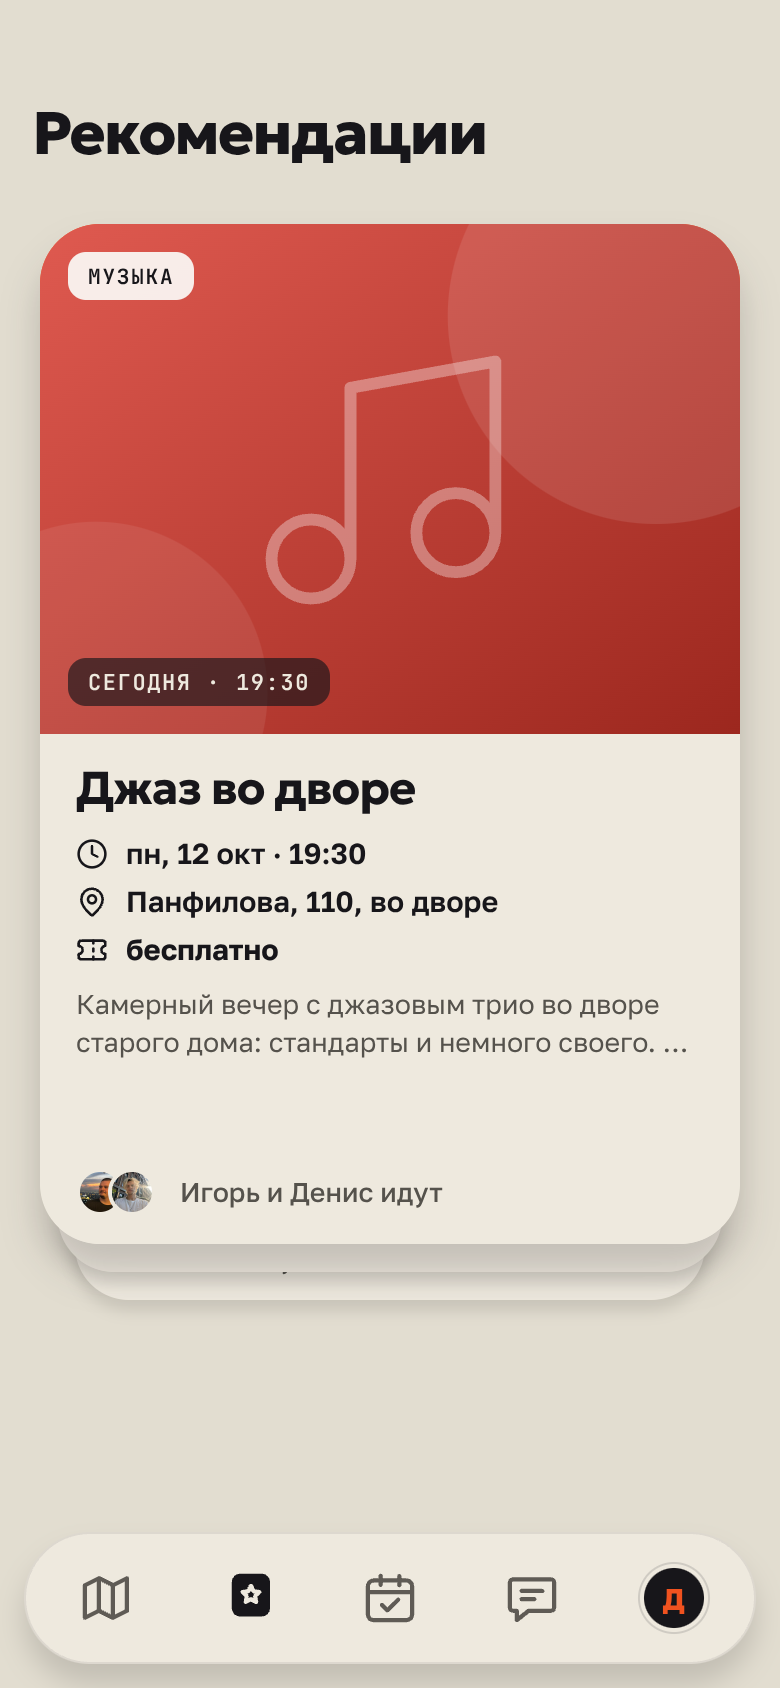
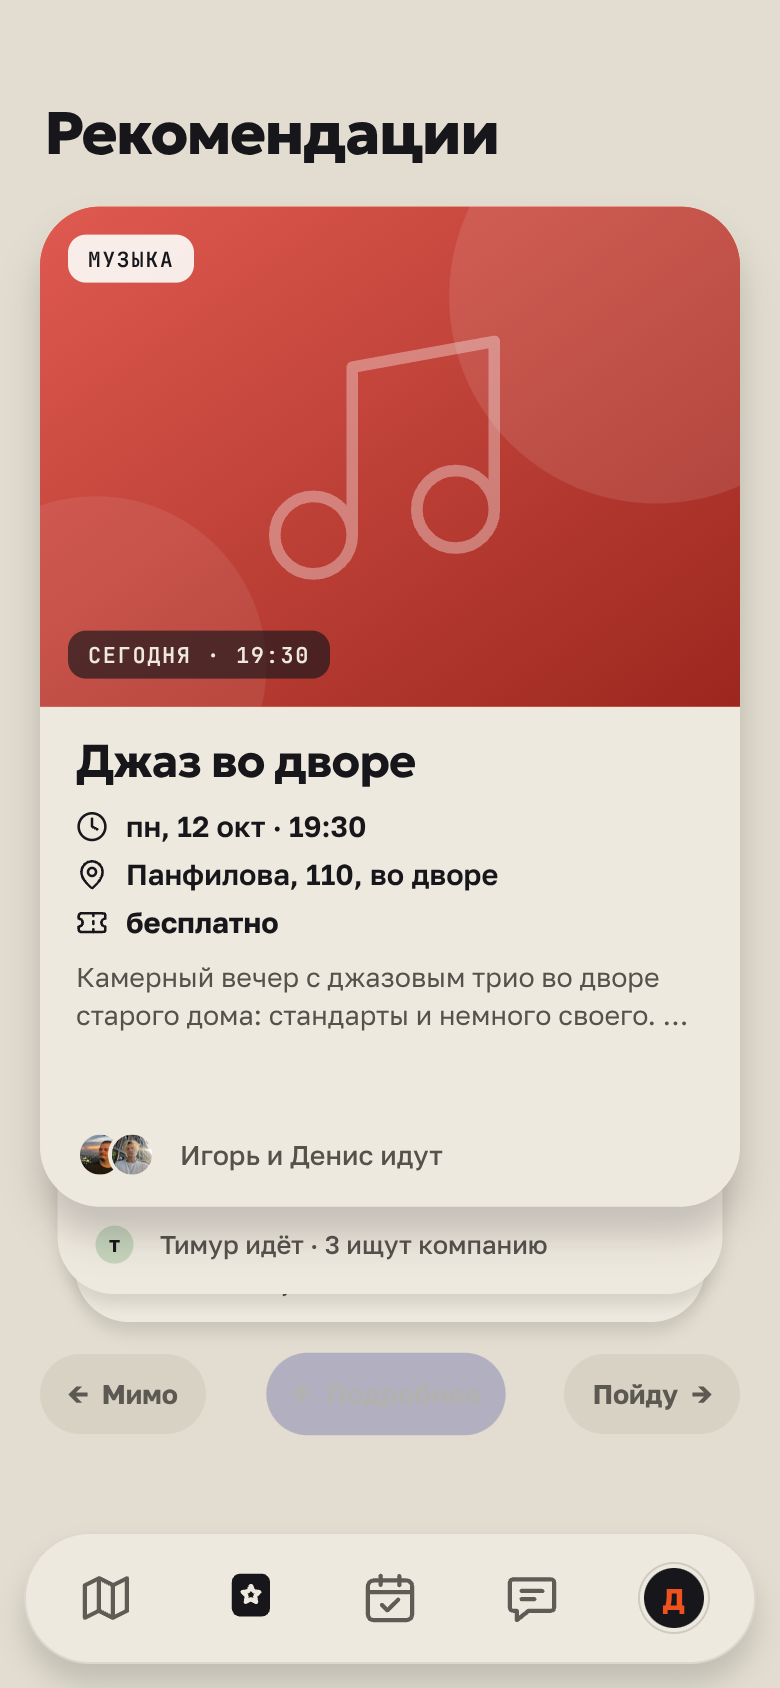
Рекомендации: подсказки жестов под карточкой и свечение краёв, плавное раскрытие вверх, «намёк» движением при простое, ровная раскладка
Claude-Session: https://claude.ai/code/session_01KgQu78EUaXc3hV8ZEHL75r

diff --git a/src/features/feed/FeedScreen.tsx b/src/features/feed/FeedScreen.tsx
@@ -10,8 +10,9 @@ import { scheduleOnRN } from 'react-native-worklets';
 import { tabCenter, tabInset } from '../../components/TabBar';
 import { useTabBadges } from '../../state/tabBadges';
 import { data, eventsSnapshot, type EventItem } from '../../data';
-import { EventPage } from '../../event/EventPage';
+import { LazyEventPage } from '../../event/LazyEventPage';
 import { SwipeCard, type SwipeHandle } from '../../feed/SwipeCard';
+import { EdgeGlow, SwipeHints } from '../../feed/SwipeHints';
 import { now as clockNow } from '../../lib/clock';
 import { buildDeck, makeSignal, tasteFrom } from '../../reco';
 import { useApp, useCoverTabBar } from '../../state/app';
@@ -49,6 +50,10 @@ export default function ForYouScreen() {
   const opened = useRef(new Set<string>());
   useCoverTabBar(!!open);
   const topRef = useRef<SwipeHandle>(null);
+  // Смещение верхней карточки: по нему подсвечиваются подсказки жестов и края экрана.
+  const dragX = useSharedValue(0);
+  const dragY = useSharedValue(0);
+  const drag = { x: dragX, y: dragY };
 
   // Вкус = ответы регистрации + свайпы. Колода пересчитывается после каждого решения.
   const answers = { interests: draft.interests ?? INITIAL_DRAFT.interests, times: draft.times ?? INITIAL_DRAFT.times, withWho: draft.withWho ?? 'friends', budget: draft.budget ?? 'mid' };
@@ -72,12 +77,18 @@ export default function ForYouScreen() {
     return d;
   }, [taste, events, decided, history, now, enter]);
 
-  const cardTop = Math.max(50, insets.top + 6) + 62;
-  // Таб-бар плавает поверх: карточки и кнопки — над ним, раскрытое событие — на весь экран.
+  // Раскладка: заголовок, карточка и подсказки жестов под ней — всё по одной вертикальной оси; свободное место делим пополам.
+  const headTop = Math.max(50, insets.top + 6);
+  const baseTop = headTop + 56;
   const fullH = H || winH;
   const screenH = fullH - tabInset(insets.bottom) + 10;
+  const HINTS_H = 40;
+  const GAP = 44; // под карточкой видна стопка (28) и зазор
   const cardW = Math.min(350, W - 40);
-  const cardH = Math.max(350, Math.min(510, screenH - cardTop - 30));
+  const cardH = Math.max(340, Math.min(500, screenH - baseTop - GAP - HINTS_H - 16));
+  const free = Math.max(0, screenH - baseTop - cardH - GAP - HINTS_H - 16);
+  const cardTop = baseTop + Math.round(free * 0.45);
+  const hintsTop = cardTop + cardH + GAP;
   const cardX = (W - cardW) / 2;
   // Центр иконки «Планы» на панели относительно центра карточки.
   const plansIcon = tabCenter(2, W, fullH, insets.bottom);
@@ -151,9 +162,11 @@ export default function ForYouScreen() {
 
   return (
     <View style={styles.root} onLayout={(ev) => setH(ev.nativeEvent.layout.height)}>
-      <View style={[styles.head, { top: Math.max(50, insets.top + 6) }]}>
+      <View style={[styles.head, { top: headTop, left: cardX + 2, right: cardX }]}>
         <Text style={styles.h1} accessibilityRole="header">Рекомендации</Text>
       </View>
+
+      {top && <EdgeGlow x={dragX} width={W} />}
 
       <View style={{ position: 'absolute', left: cardX, top: cardTop, width: cardW, height: cardH }}>
         {deck.slice(0, STACK).map((e, k) => (
@@ -169,9 +182,14 @@ export default function ForYouScreen() {
             expand={p} onReveal={() => openCard(e, true)}
             onRevealEnd={(commit) => { if (commit) p.set(withTiming(1, { duration: 240, easing: Easing.out(Easing.cubic) })); else closeCard(); }}
             onUndo={doUndo}
+            drag={k === 0 ? drag : undefined}
           />
         )).reverse()}
       </View>
+
+      {top && !open && (
+        <View style={[styles.hints, { top: hintsTop, left: cardX, width: cardW }]} pointerEvents="none"><SwipeHints x={dragX} y={dragY} /></View>
+      )}
 
       {!top && (
         <View style={[styles.emptyBox, { top: cardTop + 40 }]}>
@@ -197,7 +215,7 @@ export default function ForYouScreen() {
       {open && (
         <Animated.View style={[styles.clip, clip]}>
           <Animated.View style={[{ position: 'absolute', width: W, height: fullH }, clipInner]}>
-            <EventPage e={open} now={now} closeLabel="Свернуть обратно в карточку" onClose={() => closeCard()} onSkip={() => closeCard(() => topRef.current?.fly('skip'))}
+            <LazyEventPage progress={p} e={open} now={now} closeLabel="Свернуть обратно в карточку" onClose={() => closeCard()} onSkip={() => closeCard(() => topRef.current?.fly('skip'))}
               onGo={() => closeCard(() => topRef.current?.fly('go'))} />
           </Animated.View>
         </Animated.View>
@@ -218,4 +236,5 @@ const styles = StyleSheet.create({
   emptyGhostText: { fontFamily: fonts.body700, fontSize: 14.5, color: colors.ink, textDecorationLine: 'underline' },
   emptyBtnText: { fontFamily: fonts.body700, fontSize: 15.5, color: colors.paper },
   clip: { position: 'absolute', overflow: 'hidden', zIndex: 50 },
+  hints: { position: 'absolute' },
 });

diff --git a/src/feed/SwipeCard.tsx b/src/feed/SwipeCard.tsx
@@ -1,10 +1,10 @@
 // Карточка в стопке v6 (V6.md §4.1): вправо — «Пойду», влево — «Мимо», вверх (60 px) или тап — раскрыть.
 // «Пойду» — одна дуга (квадратичная кривая Безье) от точки отпускания к иконке «Планы»: ease-in, масштаб до 0,06,
 // поворот до −18°, углы скругляются до круга. Считается в worklet по параметру t — без остановок.
-import { forwardRef, useEffect, useImperativeHandle } from 'react';
+import { forwardRef, useEffect, useImperativeHandle, useState } from 'react';
 import { Platform, StyleSheet } from 'react-native';
 import { Gesture, GestureDetector } from 'react-native-gesture-handler';
-import Animated, { Easing, useAnimatedStyle, useSharedValue, withSpring, withTiming, type SharedValue } from 'react-native-reanimated';
+import Animated, { Easing, useAnimatedReaction, useAnimatedStyle, useSharedValue, withDelay, withSequence, withSpring, withTiming, type SharedValue } from 'react-native-reanimated';
 import { scheduleOnRN } from 'react-native-worklets';
 import type { EventItem, Person } from '../data/types';
 import { colors } from '../theme';
@@ -33,7 +33,9 @@ export const SwipeCard = forwardRef<SwipeHandle, {
   onUndo: () => void;
   /** Карточка коснулась иконки «Планы» — панель подпрыгивает. */
   onLand?: () => void;
-}>(function SwipeCard({ e, people, now, k, top, width, height, target, enterFrom, onDecide, onTap, onLand, expand, onReveal, onRevealEnd, onUndo }, ref) {
+  /** Куда отдавать смещение верхней карточки — для подсказок жестов и подсветки краёв. */
+  drag?: { x: SharedValue<number>; y: SharedValue<number> };
+}>(function SwipeCard({ e, people, now, k, top, width, height, target, enterFrom, onDecide, onTap, onLand, expand, onReveal, onRevealEnd, onUndo, drag }, ref) {
   const dx = useSharedValue(0);
   const dy = useSharedValue(0);
   const rot = useSharedValue(0);
@@ -45,6 +47,35 @@ export const SwipeCard = forwardRef<SwipeHandle, {
   const busy = useSharedValue(false);
   const stamp = useSharedValue(0);
   const revealing = useSharedValue(false);
+
+  // Смещение верхней карточки — наружу (подсказки под карточкой и свечение по краям).
+  useAnimatedReaction(() => dx.get(), (v) => { if (top && drag) drag.x.set(v); });
+  useAnimatedReaction(() => dy.get(), (v) => { if (top && drag) drag.y.set(v); });
+
+  // Как в TikTok: если задумался на карточке, она сама «намекает» движением — чуть вправо («Пойду»), чуть вверх («Подробнее»),
+  // но не улетает: листнуть должен сам человек. Любое касание сбрасывает ожидание; не больше трёх подсказок на карточку.
+  const [touched, setTouched] = useState(0);
+  const touch = () => setTouched((c) => c + 1);
+  useEffect(() => {
+    if (!top || enterFrom) return;
+    const timers: ReturnType<typeof setTimeout>[] = [];
+    let n = 0;
+    const play = () => {
+      if (busy.get() || revealing.get()) return;
+      n++;
+      const ease = Easing.inOut(Easing.cubic);
+      dx.set(withSequence(withTiming(46, { duration: 520, easing: Easing.out(Easing.cubic) }), withDelay(260, withTiming(0, { duration: 460, easing: ease }))));
+      rot.set(withSequence(withTiming(4, { duration: 520 }), withDelay(260, withTiming(0, { duration: 460 }))));
+      timers.push(setTimeout(() => {
+        if (busy.get() || revealing.get()) return;
+        dy.set(withSequence(withTiming(-30, { duration: 420, easing: Easing.out(Easing.cubic) }), withDelay(160, withTiming(0, { duration: 420, easing: ease }))));
+      }, 1900));
+      if (n < 3) timers.push(setTimeout(play, 7500));
+    };
+    timers.push(setTimeout(play, 5000));
+    return () => timers.forEach(clearTimeout);
+    // eslint-disable-next-line react-hooks/exhaustive-deps
+  }, [top, touched, enterFrom]);
 
   // «Вернуть»: карточка появляется с той стороны, куда ушла.
   useEffect(() => {
@@ -86,6 +117,13 @@ export const SwipeCard = forwardRef<SwipeHandle, {
   const pan = Gesture.Pan()
     .enabled(top)
     .minDistance(0)
+    .onBegin(() => {
+      scheduleOnRN(touch);
+      // Касание посреди подсказывающего движения — карточка сразу возвращается на место.
+      if (!busy.get() && (dx.get() !== 0 || dy.get() !== 0)) {
+        dx.set(withTiming(0, { duration: 140 })); dy.set(withTiming(0, { duration: 140 })); rot.set(withTiming(0, { duration: 140 }));
+      }
+    })
     .onChange((ev) => {
       if (busy.get()) return;
       if (!revealing.get() && ev.translationY < -18 && Math.abs(ev.translationX) < 32) {

diff --git a/src/feed/SwipeHints.tsx b/src/feed/SwipeHints.tsx
@@ -1,0 +1,51 @@
+// Подсказки жестов ленты: три «кнопки» под карточкой — ← Мимо · ↑ Подробнее · Пойду →. Они не нажимаются, а показывают,
+// куда тянуть: при движении карточки нужная подсвечивается, по краям экрана проступает цветная заливка.
+import { StyleSheet, View } from 'react-native';
+import Animated, { Extrapolation, interpolate, interpolateColor, useAnimatedStyle, type SharedValue } from 'react-native-reanimated';
+import { colors, fonts } from '../theme';
+
+const THRESHOLD = 90;
+
+function Pill({ label, src, range, tint, side }: { label: string; src: SharedValue<number>; range: [number, number]; tint: string; side?: 'left' | 'right' | 'mid' }) {
+  const st = useAnimatedStyle(() => {
+    const a = interpolate(src.get(), range, [0, 1], Extrapolation.CLAMP);
+    return { backgroundColor: interpolateColor(a, [0, 1], [colors.sand, tint]), transform: [{ scale: 1 + 0.08 * a }], opacity: 0.8 + 0.2 * a };
+  });
+  const tx = useAnimatedStyle(() => ({ color: interpolateColor(interpolate(src.get(), range, [0, 1], Extrapolation.CLAMP), [0, 1], [colors.muted2, '#FFFFFF']) as string }));
+  return (
+    <Animated.View style={[styles.pill, side === 'mid' && styles.mid, st]} accessibilityElementsHidden importantForAccessibility="no-hide-descendants">
+      <Animated.Text style={[styles.label, tx]}>{label}</Animated.Text>
+    </Animated.View>
+  );
+}
+
+export function SwipeHints({ x, y }: { x: SharedValue<number>; y: SharedValue<number> }) {
+  return (
+    <View style={styles.row}>
+      <Pill label="←  Мимо" src={x} range={[-12, -THRESHOLD]} tint={colors.ink} side="left" />
+      <Pill label="↑  Подробнее" src={y} range={[-10, -60]} tint={colors.friend} side="mid" />
+      <Pill label="Пойду  →" src={x} range={[12, THRESHOLD]} tint={colors.accent} side="right" />
+    </View>
+  );
+}
+
+/** Цветная заливка по краям экрана: слева тёмная («Мимо»), справа оранжевая («Пойду»). */
+export function EdgeGlow({ x, width }: { x: SharedValue<number>; width: number }) {
+  const l = useAnimatedStyle(() => ({ opacity: interpolate(x.get(), [-THRESHOLD * 1.4, -10], [0.28, 0], Extrapolation.CLAMP) }));
+  const r = useAnimatedStyle(() => ({ opacity: interpolate(x.get(), [10, THRESHOLD * 1.4], [0, 0.4], Extrapolation.CLAMP) }));
+  return (
+    <>
+      <Animated.View pointerEvents="none" style={[styles.glow, { left: 0, width: width * 0.35, backgroundColor: colors.ink }, l]} />
+      <Animated.View pointerEvents="none" style={[styles.glow, { right: 0, width: width * 0.35, backgroundColor: colors.accent }, r]} />
+    </>
+  );
+}
+
+
+const styles = StyleSheet.create({
+  row: { flexDirection: 'row', alignItems: 'center', justifyContent: 'space-between', gap: 8 },
+  pill: { height: 40, paddingHorizontal: 14, borderRadius: 20, flexDirection: 'row', alignItems: 'center', gap: 6 },
+  mid: { paddingHorizontal: 12 },
+  label: { fontFamily: fonts.body700, fontSize: 13.5 },
+  glow: { position: 'absolute', top: 0, bottom: 0 },
+});

diff --git a/src/event/LazyEventPage.tsx b/src/event/LazyEventPage.tsx
@@ -1,0 +1,54 @@
+// Плавное раскрытие карточки: пока она растёт из мини-карточки на весь экран, показываем лёгкую «шапку» (фото, время, название —
+// как верх настоящей страницы), а саму тяжёлую страницу события монтируем, когда раскрытие почти закончено.
+// Раньше страница монтировалась в середине жеста, и анимация дёргалась.
+import { useState, type ComponentProps } from 'react';
+import { StyleSheet, Text, View } from 'react-native';
+import { useAnimatedReaction, type SharedValue } from 'react-native-reanimated';
+import { scheduleOnRN } from 'react-native-worklets';
+import Svg, { Defs, LinearGradient, Rect, Stop } from 'react-native-svg';
+import type { EventItem } from '../data/types';
+import { stampOf } from '../map/ui/EventSheet';
+import { colors, fonts } from '../theme';
+import { EventCover } from '../ui/EventCover';
+import { EventPage } from './EventPage';
+
+function Hero({ e, now }: { e: EventItem; now: Date }) {
+  return (
+    <View style={styles.root}>
+      <EventCover cover={e.cover} category={e.category} color={e.coverColor} style={styles.cover} iconSize={240}>
+        <Svg style={StyleSheet.absoluteFill} width="100%" height="100%" preserveAspectRatio="none" pointerEvents="none">
+          <Defs>
+            <LinearGradient id="heroShade" x1="0" y1="0" x2="0" y2="1">
+              <Stop offset="0" stopColor="#17161A" stopOpacity="0.25" />
+              <Stop offset="0.45" stopColor="#17161A" stopOpacity="0" />
+              <Stop offset="1" stopColor="#17161A" stopOpacity="0.8" />
+            </LinearGradient>
+          </Defs>
+          <Rect x="0" y="0" width="100%" height="100%" fill="url(#heroShade)" />
+        </Svg>
+        <View style={styles.text}>
+          <View style={styles.stamp}><Text style={styles.stampText}>{stampOf(e, now)}</Text></View>
+          <Text style={styles.h1}>{e.title}</Text>
+        </View>
+      </EventCover>
+    </View>
+  );
+}
+
+export function LazyEventPage({ progress, ...props }: ComponentProps<typeof EventPage> & { progress: SharedValue<number> }) {
+  const [ready, setReady] = useState(false);
+  useAnimatedReaction(
+    () => progress.get() >= 0.97,
+    (on, prev) => { if (on !== prev) scheduleOnRN(setReady, on); },
+  );
+  return ready ? <EventPage {...props} /> : <Hero e={props.e} now={props.now} />;
+}
+
+const styles = StyleSheet.create({
+  root: { flex: 1, backgroundColor: colors.paper },
+  cover: { height: 470, justifyContent: 'flex-end' },
+  text: { padding: 18, gap: 10 },
+  stamp: { alignSelf: 'flex-start', paddingHorizontal: 10, paddingVertical: 6, borderRadius: 10, backgroundColor: 'rgba(23,22,26,0.55)' },
+  stampText: { fontFamily: fonts.mono600, fontSize: 11.5, letterSpacing: 0.9, color: '#EEE9DE' },
+  h1: { fontFamily: fonts.display800, fontSize: 30, letterSpacing: -0.9, lineHeight: 33, color: '#FFFFFF' },
+});

diff --git a/src/features/map/MapScreen.tsx b/src/features/map/MapScreen.tsx
@@ -6,7 +6,7 @@ import { useCallback, useEffect, useMemo, useRef, useState } from 'react';
 import { Linking, Platform, StyleSheet, Text, useWindowDimensions, View } from 'react-native';
 import Animated, { Easing, FadeOut, useAnimatedStyle, useSharedValue, withTiming } from 'react-native-reanimated';
 import { scheduleOnRN } from 'react-native-worklets';
-import { EventPage } from '../../event/EventPage';
+import { LazyEventPage } from '../../event/LazyEventPage';
 import { useApp, useCoverTabBar } from '../../state/app';
 import { useSafeAreaInsets } from 'react-native-safe-area-context';
 import { data, eventsSnapshot, type EventItem } from '../../data';
@@ -548,7 +548,7 @@ export default function MapScreen() {
       {open && (
         <Animated.View style={[styles.clip, clip]}>
           <Animated.View style={[{ position: 'absolute', width: W, height: fullH, flex: 1 }, clipInner]}>
-            <EventPage e={open} now={clock} onClose={closeEvent} initialSheet={openSheet} />
+            <LazyEventPage progress={ex} e={open} now={clock} onClose={closeEvent} initialSheet={openSheet} />
           </Animated.View>
         </Animated.View>
       )}
